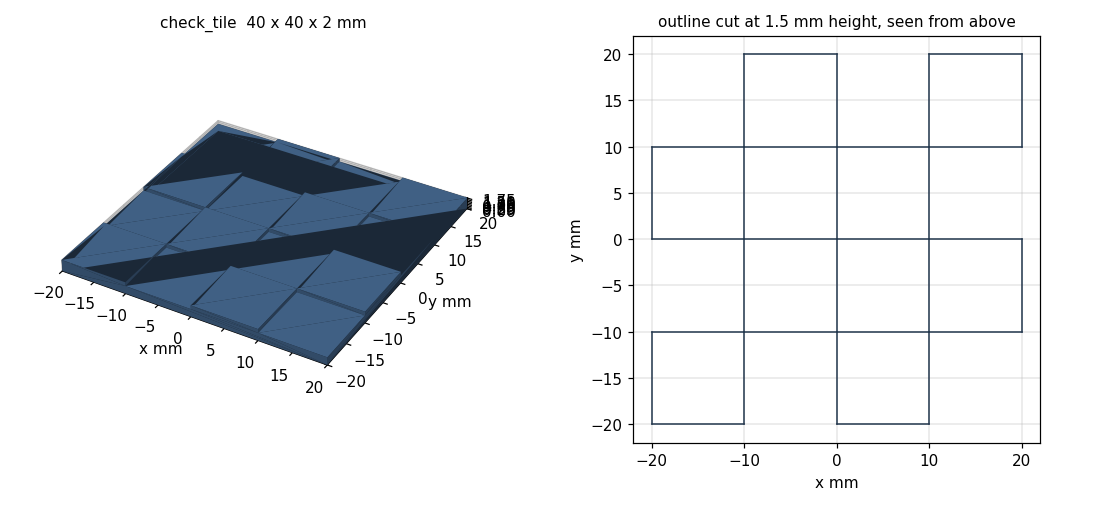
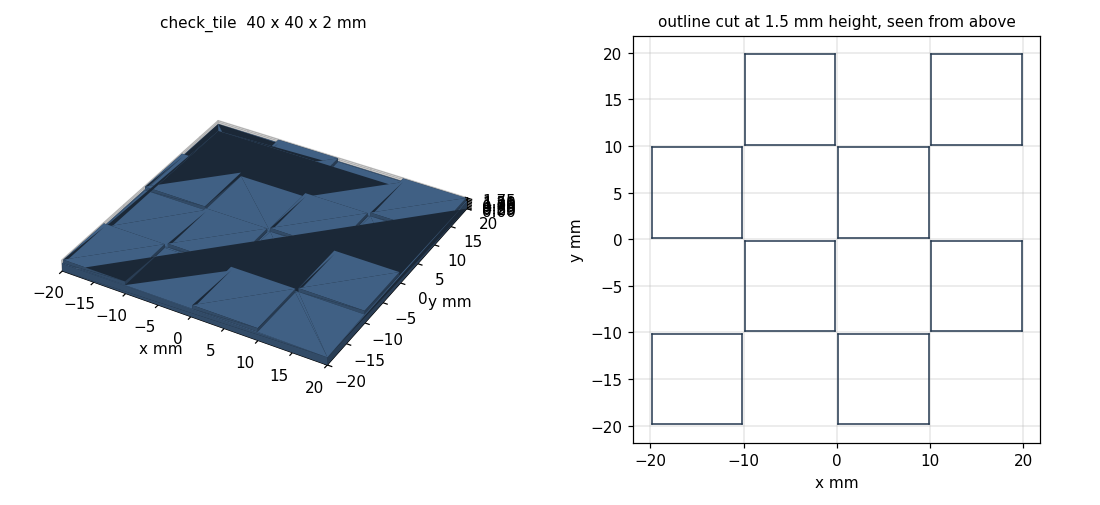
Dock parts ready to print (bracket merged from bumper-side, check tile mesh fixed); simulated cable-plant equipment (extruder, strander, take-up reel, test bay) with printability and distance-sensor checks
Claude-Session: https://claude.ai/code/session_016gn8BDw2z1DBU9KvexE4En

diff --git a/hardware/factory/build.py b/hardware/factory/build.py
@@ -1,0 +1,227 @@
+"""Simulated cable-plant equipment for the plywood board: print files + previews + a printability report.
+
+    python hardware/factory/build.py      (writes hardware/factory/stl/*.stl and hardware/factory/preview/*.png)
+
+Four stylised machines from a cable plant, sized for the 122 x 122 cm board and a 200 x 200 mm print bed:
+
+  extruder     long barrel housing with a feed hopper, a control cabinet and a die head    162 x 40 x 75 mm
+  strander     cabling machine: an eight-sided cage lying on a base, with end bearing blocks  150 x 56 x 56 mm
+  takeup_reel  take-up reel standing on a base, with a drive box                           100 x 64 x 68 mm
+  test_bay     L-shaped inspection station (its L shows its orientation from above)         140 x 140 x 60 mm
+
+What they must do for the project (each is checked below):
+  - be seen by the robot's front distance sensor: the sensor sits 29.5 mm up and looks slightly down, so every
+    machine has solid vertical faces at least MIN_FACE_H_MM tall all round, from the floor;
+  - read from the overhead camera (about 3.4 px/cm) as a distinct shape, never as a robot: no outline near the
+    robot's 95 x 95 mm square, and no white (print colour, README);
+  - print without supports, lying as exported, on a 200 x 200 mm bed.
+"""
+import math
+import os
+import sys
+
+HERE = os.path.dirname(os.path.abspath(__file__))
+STL = os.path.join(HERE, "stl")
+PNG = os.path.join(HERE, "preview")
+
+BED_MM = (200.0, 200.0)
+BED_MARGIN_MM = 8.0            # brim / skirt room each side
+MIN_FACE_H_MM = 45.0           # every outside wall at least this tall at the floor (sensor 29.5 mm up)
+MAX_OVERHANG_DEG = 45.0
+MAX_LOW_GAP_MM = 20.0          # a low stretch (base plate only) no wider than this along any side
+ROBOT_MM = 95.0                # the Alvik's footprint, for the "doesn't look like a robot" check
+
+
+def cq():
+    import cadquery
+    return cadquery
+
+
+def box(x0, y0, z0, dx, dy, dz):
+    return cq().Workplane("XY").box(dx, dy, dz, centered=False).translate((x0, y0, z0))
+
+
+def octagon_prism_x(x0, length, cy, cz, across_flats):
+    """Eight-sided prism along X, a flat face down (its lower slopes are exactly 45 deg: no support)."""
+    c = cq()
+    r = across_flats / 2 / math.cos(math.radians(22.5))
+    pts = [(cy + r * math.cos(math.radians(22.5 + 45 * k)), cz + r * math.sin(math.radians(22.5 + 45 * k)))
+           for k in range(8)]
+    return c.Workplane("YZ").polyline(pts).close().extrude(length).translate((x0, 0, 0))
+
+
+def extruder():
+    c = cq()
+    body = box(30, 0, 0, 120, 40, 45)                       # barrel housing
+    cab = box(0, 0, 0, 30, 40, 60)                          # control cabinet
+    die = box(150, 8, 0, 12, 24, 45)                        # die head
+    hop = (c.Workplane("XY").workplane(offset=45).center(62, 20).rect(18, 18)
+           .workplane(offset=30).rect(36, 36).loft())       # feed hopper, widening upward (17 deg)
+    return body.union(cab).union(die).union(hop)
+
+
+def strander():
+    base = box(0, 0, 0, 150, 56, 10)
+    cage = octagon_prism_x(14, 122, 28, 10 + 20, 40)        # 40 mm across flats, flat on the base
+    left = box(0, 0, 10, 12, 56, 46)                        # bearing blocks at the ends, full width
+    right = box(138, 0, 10, 12, 56, 46)
+    return base.union(cage).union(left).union(right)
+
+
+def takeup_reel():
+    base = box(0, 0, 0, 100, 64, 8)
+    f1 = octagon_prism_x(24, 6, 32, 8 + 30, 60)
+    f2 = octagon_prism_x(70, 6, 32, 8 + 30, 60)
+    core = octagon_prism_x(30, 40, 32, 8 + 30, 50)            # wound cable, nearly to the flange rims
+    web = box(30, 20, 8, 40, 24, 8)                         # cradle under the cable (no bridge to print)
+    drive = box(82, 14, 8, 16, 36, 37)                      # drive box: base 8 + 37 = 45 mm
+    end_l = box(0, 0, 0, 6, 64, MIN_FACE_H_MM)              # low end walls so every side faces the sensor
+    return base.union(f1).union(f2).union(core).union(web).union(drive).union(end_l)
+
+
+def test_bay():
+    a = box(0, 0, 0, 140, 44, 50)
+    b = box(0, 0, 0, 44, 140, 50)
+    console = box(4, 4, 50, 36, 36, 10)                     # raised console at the corner
+    return a.union(b).union(console)
+
+
+PARTS = {"extruder": extruder, "strander": strander, "takeup_reel": takeup_reel, "test_bay": test_bay}
+
+
+def tess(shape, tol=0.2):
+    import numpy as np
+    verts, tris = shape.val().tessellate(tol, 0.3)
+    V = np.array([(v.x, v.y, v.z) for v in verts])
+    return V, np.array(tris)
+
+
+def overhang_mm2(shape):
+    import numpy as np
+    V, T = tess(shape)
+    tri = V[T]
+    n = np.cross(tri[:, 1] - tri[:, 0], tri[:, 2] - tri[:, 0])
+    area = np.linalg.norm(n, axis=1) / 2
+    nz = n[:, 2] / np.maximum(2 * area, 1e-12)
+    low = tri[:, :, 2].max(axis=1) > V[:, 2].min() + 0.25
+    steep = nz < -math.cos(math.radians(90 - MAX_OVERHANG_DEG)) - 1e-6
+    return float(area[low & steep].sum())
+
+
+def face_heights(shape, step=3.0, window=25.0):
+    """For lines coming in from each side at floor level: the tallest solid within `window` mm of the first
+    thing hit. That is roughly what the robot's distance sensor (29.5 mm up, looking slightly down) meets
+    when it drives up to the machine from that side."""
+    c = cq()
+    sol = shape.val()
+    b = sol.BoundingBox()
+    inside = lambda x, y, z: sol.isInside(c.Vector(x, y, z), 0.05)
+
+    def height(x, y):
+        h = 0.0
+        z = 1.0
+        while z < b.zmax and inside(x, y, z):
+            h = z
+            z += 2.0
+        return h
+
+    out = {}
+    for side in ("-x", "+x", "-y", "+y"):
+        hs = []
+        across = (b.ymin, b.ymax) if side in ("-x", "+x") else (b.xmin, b.xmax)
+        depth = b.xlen if side in ("-x", "+x") else b.ylen
+        t = across[0] + 1.5
+        while t < across[1] - 1.5:
+            def pt(d):
+                return {"-x": (b.xmin + d, t), "+x": (b.xmax - d, t), "-y": (t, b.ymin + d),
+                        "+y": (t, b.ymax - d)}[side]
+            d = 0.5
+            while d < depth and not inside(*pt(d), 1.0):
+                d += 1.0
+            if d < depth:
+                best, e = 0.0, d
+                while e <= min(d + window, depth):
+                    if inside(*pt(e), 1.0) or True:
+                        best = max(best, height(*pt(e)))
+                    e += 2.0
+                hs.append(best)
+            t += step
+        out[side] = hs
+    return out
+
+
+def preview(name, shape, path):
+    import matplotlib
+    matplotlib.use("Agg")
+    import matplotlib.pyplot as plt
+    from mpl_toolkits.mplot3d.art3d import Poly3DCollection
+    import numpy as np
+    V, T = tess(shape, 0.3)
+    fig = plt.figure(figsize=(10, 4.6))
+    ax = fig.add_subplot(1, 2, 1, projection="3d")
+    ax.add_collection3d(Poly3DCollection(V[T], facecolor="#5b7fa6", edgecolor="#2d3e52", linewidths=0.05))
+    lo, hi = V.min(axis=0), V.max(axis=0)
+    span = (hi - lo).max()
+    ax.set_xlim(lo[0], lo[0] + span); ax.set_ylim(lo[1], lo[1] + span); ax.set_zlim(0, span)
+    ax.view_init(28, -55)
+    ax.set_title("%s  %.0f x %.0f x %.0f mm" % (name, *(hi - lo)), fontsize=10)
+    ax2 = fig.add_subplot(1, 2, 2)
+    top = V[T]
+    for t in top:
+        ax2.fill(t[:, 0], t[:, 1], color="#5b7fa6", alpha=0.25, linewidth=0)
+    ax2.add_patch(plt.Rectangle((lo[0] + 2, hi[1] + 6), ROBOT_MM, ROBOT_MM, fill=False, ls="--", ec="#999"))
+    ax2.text(lo[0] + 4, hi[1] + 10, "robot 95 mm", fontsize=8, color="#777")
+    ax2.set_aspect("equal"); ax2.set_title("seen from above (camera view), with a robot for scale", fontsize=10)
+    ax2.set_xlabel("mm")
+    fig.tight_layout()
+    fig.savefig(path, dpi=110)
+    plt.close(fig)
+
+
+def main():
+    os.makedirs(STL, exist_ok=True)
+    os.makedirs(PNG, exist_ok=True)
+    c = cq()
+    bad = 0
+
+    def rule(ok, text):
+        nonlocal bad
+        print(("ok   " if ok else "FAIL ") + text)
+        bad += 0 if ok else 1
+
+    for name, fn in PARTS.items():
+        s = fn()
+        b = s.val().BoundingBox()
+        s = s.translate((-b.xmin, -b.ymin, -b.zmin))
+        b = s.val().BoundingBox()
+        dx, dy, dz = b.xlen, b.ylen, b.zlen
+        fits = (dx + 2 * BED_MARGIN_MM <= BED_MM[0] and dy + 2 * BED_MARGIN_MM <= BED_MM[1])
+        rule(fits, "%s: %.0f x %.0f x %.0f mm, fits a %d x %d bed with %d mm margin" % (name, dx, dy, dz, *BED_MM,
+                                                                                      BED_MARGIN_MM))
+        rule(s.val().isValid(), "%s: valid solid" % name)
+        o = overhang_mm2(s)
+        rule(o < 20.0, "%s: %.0f mm^2 overhanging more than %d deg (print as exported, no supports)" % (
+            name, o, MAX_OVERHANG_DEG))
+        fh = face_heights(s)
+        gap = 0.0
+        for v in fh.values():
+            run = 0
+            for h in v:
+                run = run + 1 if h < MIN_FACE_H_MM - 0.5 else 0
+                gap = max(gap, run * 3.0)
+        rule(gap <= MAX_LOW_GAP_MM, "%s: widest stretch of outline lower than %.0f mm: %.0f mm (<= %.0f: the "
+             "distance sensor's beam, about 11 deg per zone, spans it)" % (name, MIN_FACE_H_MM, gap, MAX_LOW_GAP_MM))
+        robotlike = abs(dx - ROBOT_MM) < 15 and abs(dy - ROBOT_MM) < 15
+        rule(not robotlike, "%s: outline %.0f x %.0f mm, not robot-like (95 x 95)" % (name, dx, dy))
+        vol = s.val().Volume() / 1000.0
+        c.exporters.export(s, os.path.join(STL, name + ".stl"), tolerance=0.05, angularTolerance=0.1)
+        preview(name, s, os.path.join(PNG, name + ".png"))
+        print("     %s: solid volume %.0f cm^3" % (name, vol))
+    print("\nwrote %s/*.stl and %s/*.png" % (STL, PNG))
+    if bad:
+        print("SOME CHECKS FAILED")
+    return 1 if bad else 0
+
+
+if __name__ == "__main__":
+    sys.exit(main())

diff --git a/hardware/dock/dock_params.py b/hardware/dock/dock_params.py
@@ -152,6 +152,7 @@ TILE_MM = 40.0                 # camera check tile: square side ...
 TILE_SQUARES = 4               # ... in TILE_SQUARES x TILE_SQUARES squares (10 mm each)
 TILE_T_MM = 1.2                # tile thickness; the dark squares stand TILE_RAISE_MM proud of it
 TILE_RAISE_MM = 0.6
+TILE_SQUARE_GAP_MM = 0.3       # raised squares 0.3 mm smaller than their cell, so diagonal squares don't touch
 TILE_RECESS_CLEAR_MM = 0.4     # recess is this much larger than the tile (each way)
 STRIPE_X0_MM = -52.0           # floor stripe: its far edge (the one a robot coming in reaches first) ...
 STRIPE_X1_MM = -44.0           # ... and its near edge, dock X

diff --git a/hardware/dock/build.py b/hardware/dock/build.py
@@ -97,7 +97,9 @@ def tile_solid():
                 continue
             sq = (c.Workplane("XY").workplane(offset=D.TILE_T_MM)
                   .center(-D.TILE_MM / 2 + (i + 0.5) * s, -D.TILE_MM / 2 + (j + 0.5) * s)
-                  .box(s, s, D.TILE_RAISE_MM, centered=(True, True, False)))
+                  .box(s - D.TILE_SQUARE_GAP_MM, s - D.TILE_SQUARE_GAP_MM, D.TILE_RAISE_MM,
+                       centered=(True, True, False)))   # a hair smaller: squares that touch only at a
+                                                          # corner make a non-manifold STL (slicer errors)
             base = base.union(sq)
     return base
 

diff --git a/hardware/factory/README.md b/hardware/factory/README.md
@@ -1,0 +1,23 @@
+# Simulated cable-plant equipment (3D printed)
+
+Four stylised machines from a cable plant, for the plywood board: landmarks the robots drive to, park beside and
+measure with their front distance sensor, and objects the overhead camera learns to tell apart from robots.
+
+| File | Machine | Size (mm) | Notes |
+| --- | --- | --- | --- |
+| `stl/extruder.stl` | extrusion line: barrel housing, feed hopper, control cabinet, die head | 162 x 40 x 75 | |
+| `stl/strander.stl` | cabling machine: eight-sided cage on a base, end bearing blocks | 150 x 56 x 56 | |
+| `stl/takeup_reel.stl` | take-up reel full of cable, on a base, with a drive box | 100 x 64 x 68 | |
+| `stl/test_bay.stl` | L-shaped inspection station | 140 x 140 x 60 | the L shows its orientation from above |
+
+`python hardware/factory/build.py` rebuilds them and checks each one:
+- fits a 200 x 200 mm bed with room for a brim;
+- prints as exported with no supports (every slope 45 degrees or steeper);
+- the robot's front distance sensor (29.5 mm up) meets a wall at least 45 mm tall from every side
+  (no low stretch wider than 20 mm);
+- its outline from above is not close to a robot's 95 x 95 mm square.
+
+Print: PLA, any colour except white (the robots' tops are white); a dark or strong colour reads best on the
+plywood. 0.2 mm layers, 2-3 walls, 5-10% infill (lightning infill if the slicer has it): they only need to stand
+still. Fix each to the board with a loop of tape or a dab of poster putty underneath, so a robot bumping it
+doesn't move a landmark.
